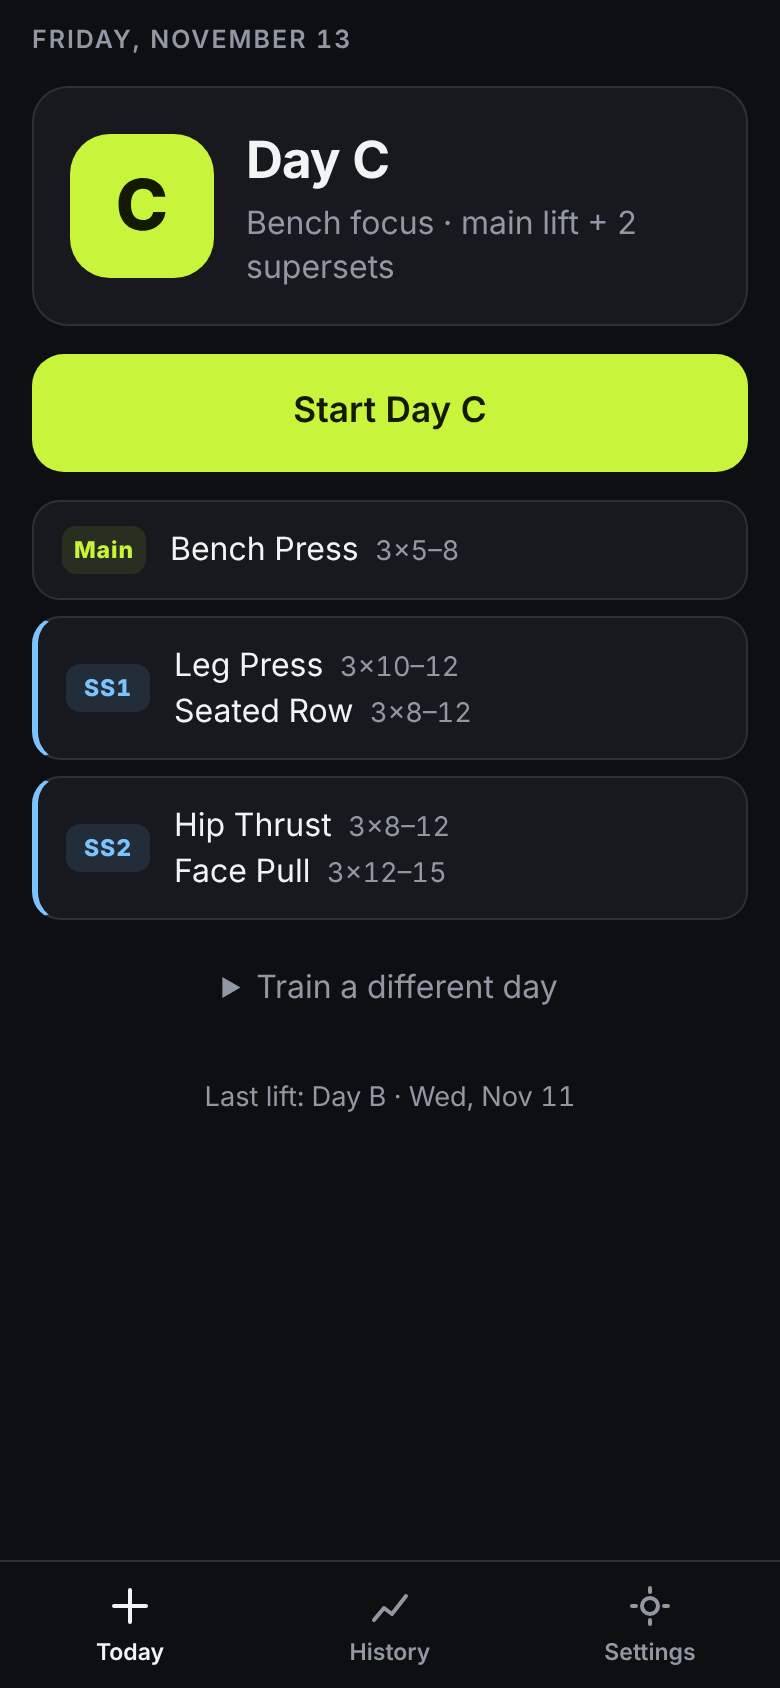
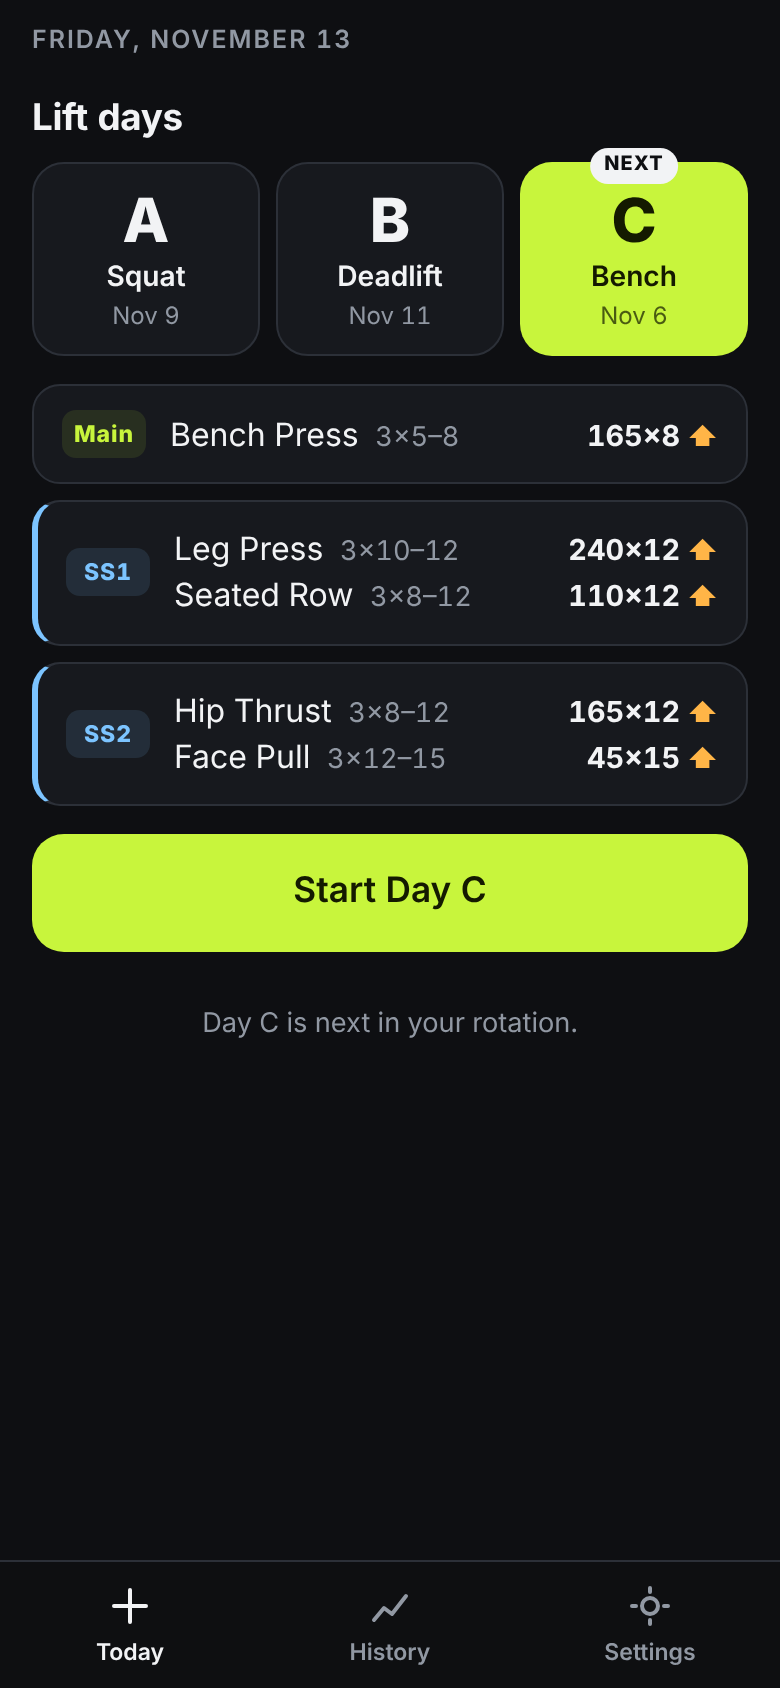
Add A/B/C day switcher to the Today view
Tapping a day previews its exercises (with last top set and go-up
markers) without starting a workout. The rotation's next day is
marked and preselected; the hidden 'Train a different day' menu is
replaced by starting whichever day is selected.

Claude-Session: https://claude.ai/code/session_01MwVHPo5PHLd7nyHf9Jdp73

diff --git a/src/components/TodayView.tsx b/src/components/TodayView.tsx
@@ -1,4 +1,5 @@
-import { dayById, formatDate, isLiftDay, nextDayId, nextLiftDate, program } from '../logic'
+import { useState } from 'react'
+import { dayById, formatDate, hitTopOfRange, isLiftDay, lastLog, nextDayId, nextLiftDate, program, topSet } from '../logic'
 import type { Session } from '../types'
 
 interface Props {
@@ -10,92 +11,109 @@ interface Props {
 export function TodayView({ sessions, onStart, onLogCardio }: Props) {
   const today = new Date()
   const nextId = nextDayId(sessions)
-  const next = dayById(nextId)!
+  const [selected, setSelected] = useState(nextId)
+  const day = dayById(selected) ?? dayById(nextId)!
   const liftToday = isLiftDay(today)
   const startOfDay = new Date(today).setHours(0, 0, 0, 0)
   const doneToday = sessions.filter((s) => s.finishedAt && s.startedAt >= startOfDay)
-  const lastLift = sessions.find((s) => s.finishedAt && s.dayId !== 'cardio')
   const liftDoneToday = doneToday.some((s) => s.dayId !== 'cardio')
   const showLift = liftToday && !liftDoneToday
+  const lastOf = (id: string) => sessions.find((s) => s.finishedAt && s.dayId === id)
+  const nextDate = nextLiftDate(showLift ? today : new Date(Date.now() + 864e5))
 
   return (
     <div className="page">
       <div className="eyebrow">{formatDate(today.getTime(), { weekday: 'long', month: 'long', day: 'numeric' })}</div>
 
-      {showLift ? (
-        <section className="hero">
-          <div className="hero-day">{next.id}</div>
-          <div>
-            <h1>{next.name}</h1>
-            <p className="muted">{next.focus} focus · main lift + 2 supersets</p>
-          </div>
-        </section>
-      ) : (
-        <section className="hero hero-cardio">
-          <div className="hero-day" aria-hidden>
-            {doneToday.length ? '✓' : '🚲'}
-          </div>
-          <div>
-            <h1>{doneToday.length ? 'Done for today' : program.cardio.title}</h1>
-            <p className="muted">{doneToday.length ? 'Nice work. Recover well.' : program.cardio.description}</p>
-          </div>
-        </section>
-      )}
-
-      {showLift ? (
-        <button className="btn btn-primary btn-big" onClick={() => onStart(nextId)}>
-          Start {next.name}
-        </button>
-      ) : (
+      {!showLift && (
         <>
+          <section className="hero hero-cardio">
+            <div className="hero-day" aria-hidden>
+              {doneToday.length ? '✓' : '🚲'}
+            </div>
+            <div>
+              <h1>{doneToday.length ? 'Done for today' : program.cardio.title}</h1>
+              <p className="muted">{doneToday.length ? 'Nice work. Recover well.' : program.cardio.description}</p>
+            </div>
+          </section>
           {!doneToday.length && (
             <button className="btn btn-primary btn-big" onClick={onLogCardio}>
               Log walk / bike
             </button>
           )}
-          <p className="muted center">
-            Up next: <b>{next.name}</b> · {formatDate(nextLiftDate(new Date(Date.now() + 864e5)).getTime())}
-          </p>
         </>
       )}
-      <Preview dayId={nextId} />
 
-      <details className="other-day">
-        <summary>Train a different day</summary>
-        <div className="row">
-          {program.days.map((d) => (
-            <button key={d.id} className="btn btn-ghost" onClick={() => onStart(d.id)}>
-              {d.name}
-            </button>
-          ))}
+      <section className="days-picker" aria-label="Program days">
+        <h2 className="section-title">Lift days</h2>
+        <div className="day-tabs" role="tablist">
+          {program.days.map((d) => {
+            const last = lastOf(d.id)
+            return (
+              <button
+                key={d.id}
+                role="tab"
+                aria-selected={d.id === day.id}
+                className="day-tab"
+                onClick={() => setSelected(d.id)}
+              >
+                {d.id === nextId && <span className="day-next">Next</span>}
+                <span className="day-letter">{d.id}</span>
+                <span className="day-focus">{d.focus}</span>
+                <span className="day-last">{last ? formatDate(last.startedAt, { month: 'short', day: 'numeric' }) : '—'}</span>
+              </button>
+            )
+          })}
         </div>
-      </details>
+      </section>
 
-      {lastLift && (
-        <p className="muted small center">
-          Last lift: {dayById(lastLift.dayId)?.name} · {formatDate(lastLift.startedAt)}
-        </p>
-      )}
+      <Preview dayId={day.id} sessions={sessions} />
+
+      <button
+        className={`btn btn-big ${showLift && day.id === nextId ? 'btn-primary' : ''}`}
+        onClick={() => onStart(day.id)}
+      >
+        Start {day.name}
+      </button>
+      <p className="muted small center">
+        {day.id === nextId
+          ? showLift
+            ? `${day.name} is next in your rotation.`
+            : `${day.name} is next · ${formatDate(nextDate.getTime())}`
+          : `Your rotation has ${dayById(nextId)!.name} next.`}
+      </p>
     </div>
   )
 }
 
-function Preview({ dayId }: { dayId: string }) {
+function Preview({ dayId, sessions }: { dayId: string; sessions: Session[] }) {
   const day = dayById(dayId)!
   let ss = 0
   return (
-    <ol className="preview">
+    <ol className="preview" aria-label={`${day.name} exercises`}>
       {day.blocks.map((b, i) => {
         if (b.type === 'superset') ss++
         return (
           <li key={i} className={`preview-${b.type}`}>
             <span className="preview-tag">{b.type === 'main' ? 'Main' : `SS${ss}`}</span>
-            <span>
-              {b.exercises.map((e) => (
-                <span key={e.id} className="preview-ex">
-                  {e.name} <span className="muted">{e.sets}×{e.repRange[0]}–{e.repRange[1]}</span>
-                </span>
-              ))}
+            <span className="preview-list">
+              {b.exercises.map((e) => {
+                const last = lastLog(sessions, e.id, 'gym')
+                const top = last && topSet(last.sets)
+                return (
+                  <span key={e.id} className="preview-ex">
+                    <span>
+                      {e.name} <span className="muted">{e.sets}×{e.repRange[0]}–{e.repRange[1]}</span>
+                    </span>
+                    {top && (
+                      <span className="preview-last">
+                        {top.weight}×{top.reps}
+                        {hitTopOfRange(last.sets, e) && <span className="go-up"> ⬆</span>}
+                      </span>
+                    )}
+                  </span>
+                )
+              })}
             </span>
           </li>
         )

diff --git a/src/styles.css b/src/styles.css
@@ -110,8 +110,26 @@ main {
 .preview-superset { border-left: 3px solid var(--ss) !important; }
 .preview-superset .preview-tag { background: var(--ss-soft); color: var(--ss); }
 .preview-ex .muted { font-size: 0.85rem; margin-left: 4px; }
-.other-day summary { color: var(--muted); padding: 8px 0; text-align: center; }
-.other-day .row { margin-top: 6px; }
+.preview-list { flex: 1; min-width: 0; }
+.preview-ex { display: flex; justify-content: space-between; align-items: baseline; gap: 8px; }
+.preview-last { font-weight: 700; font-size: 0.9rem; white-space: nowrap; }
+
+.days-picker .section-title { margin: 4px 0 8px; }
+.day-tabs { display: grid; grid-template-columns: repeat(3, 1fr); gap: 8px; }
+.day-tab {
+  position: relative; display: flex; flex-direction: column; align-items: center; gap: 2px;
+  padding: 14px 6px 10px; border-radius: 16px; border: 1px solid var(--line); background: var(--surface);
+}
+.day-letter { font-size: 1.9rem; font-weight: 800; line-height: 1; }
+.day-focus { font-weight: 600; font-size: 0.88rem; }
+.day-last { font-size: 0.75rem; color: var(--muted); }
+.day-tab[aria-selected='true'] { background: var(--accent); color: var(--accent-ink); border-color: transparent; }
+.day-tab[aria-selected='true'] .day-last { color: inherit; opacity: 0.7; }
+.day-next {
+  position: absolute; top: -8px; left: 50%; transform: translateX(-50%);
+  font-size: 0.62rem; font-weight: 800; letter-spacing: 0.06em; text-transform: uppercase;
+  background: var(--text); color: var(--bg); padding: 2px 7px; border-radius: 999px;
+}
 
 /* ---------- Workout ---------- */
 .workout-bar { display: flex; justify-content: space-between; align-items: flex-end; gap: 12px; margin-bottom: 10px; }
